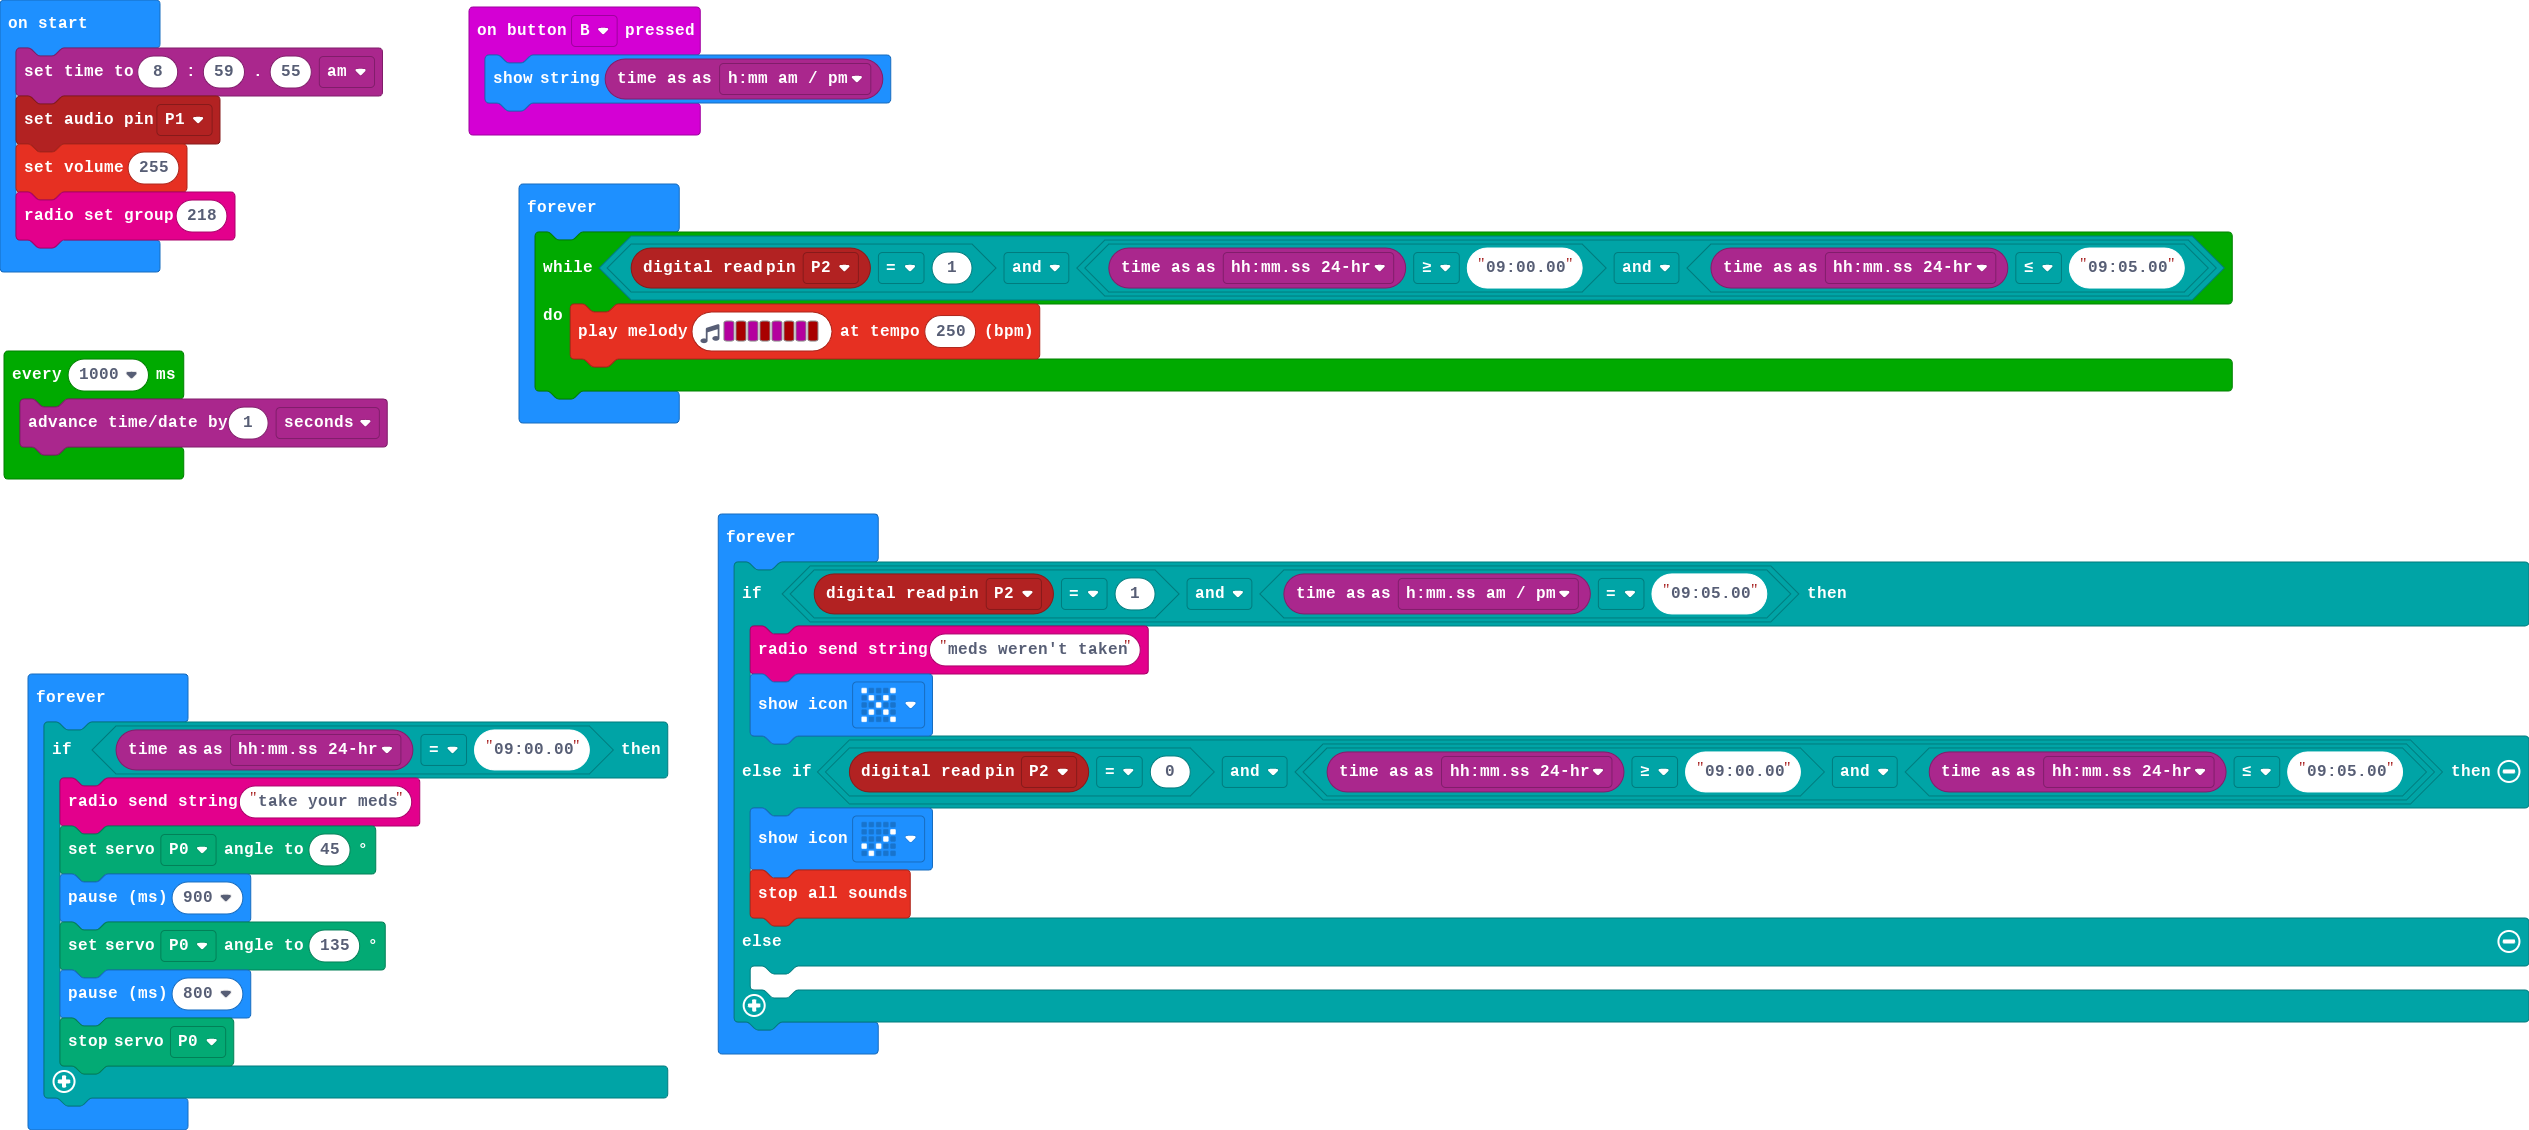
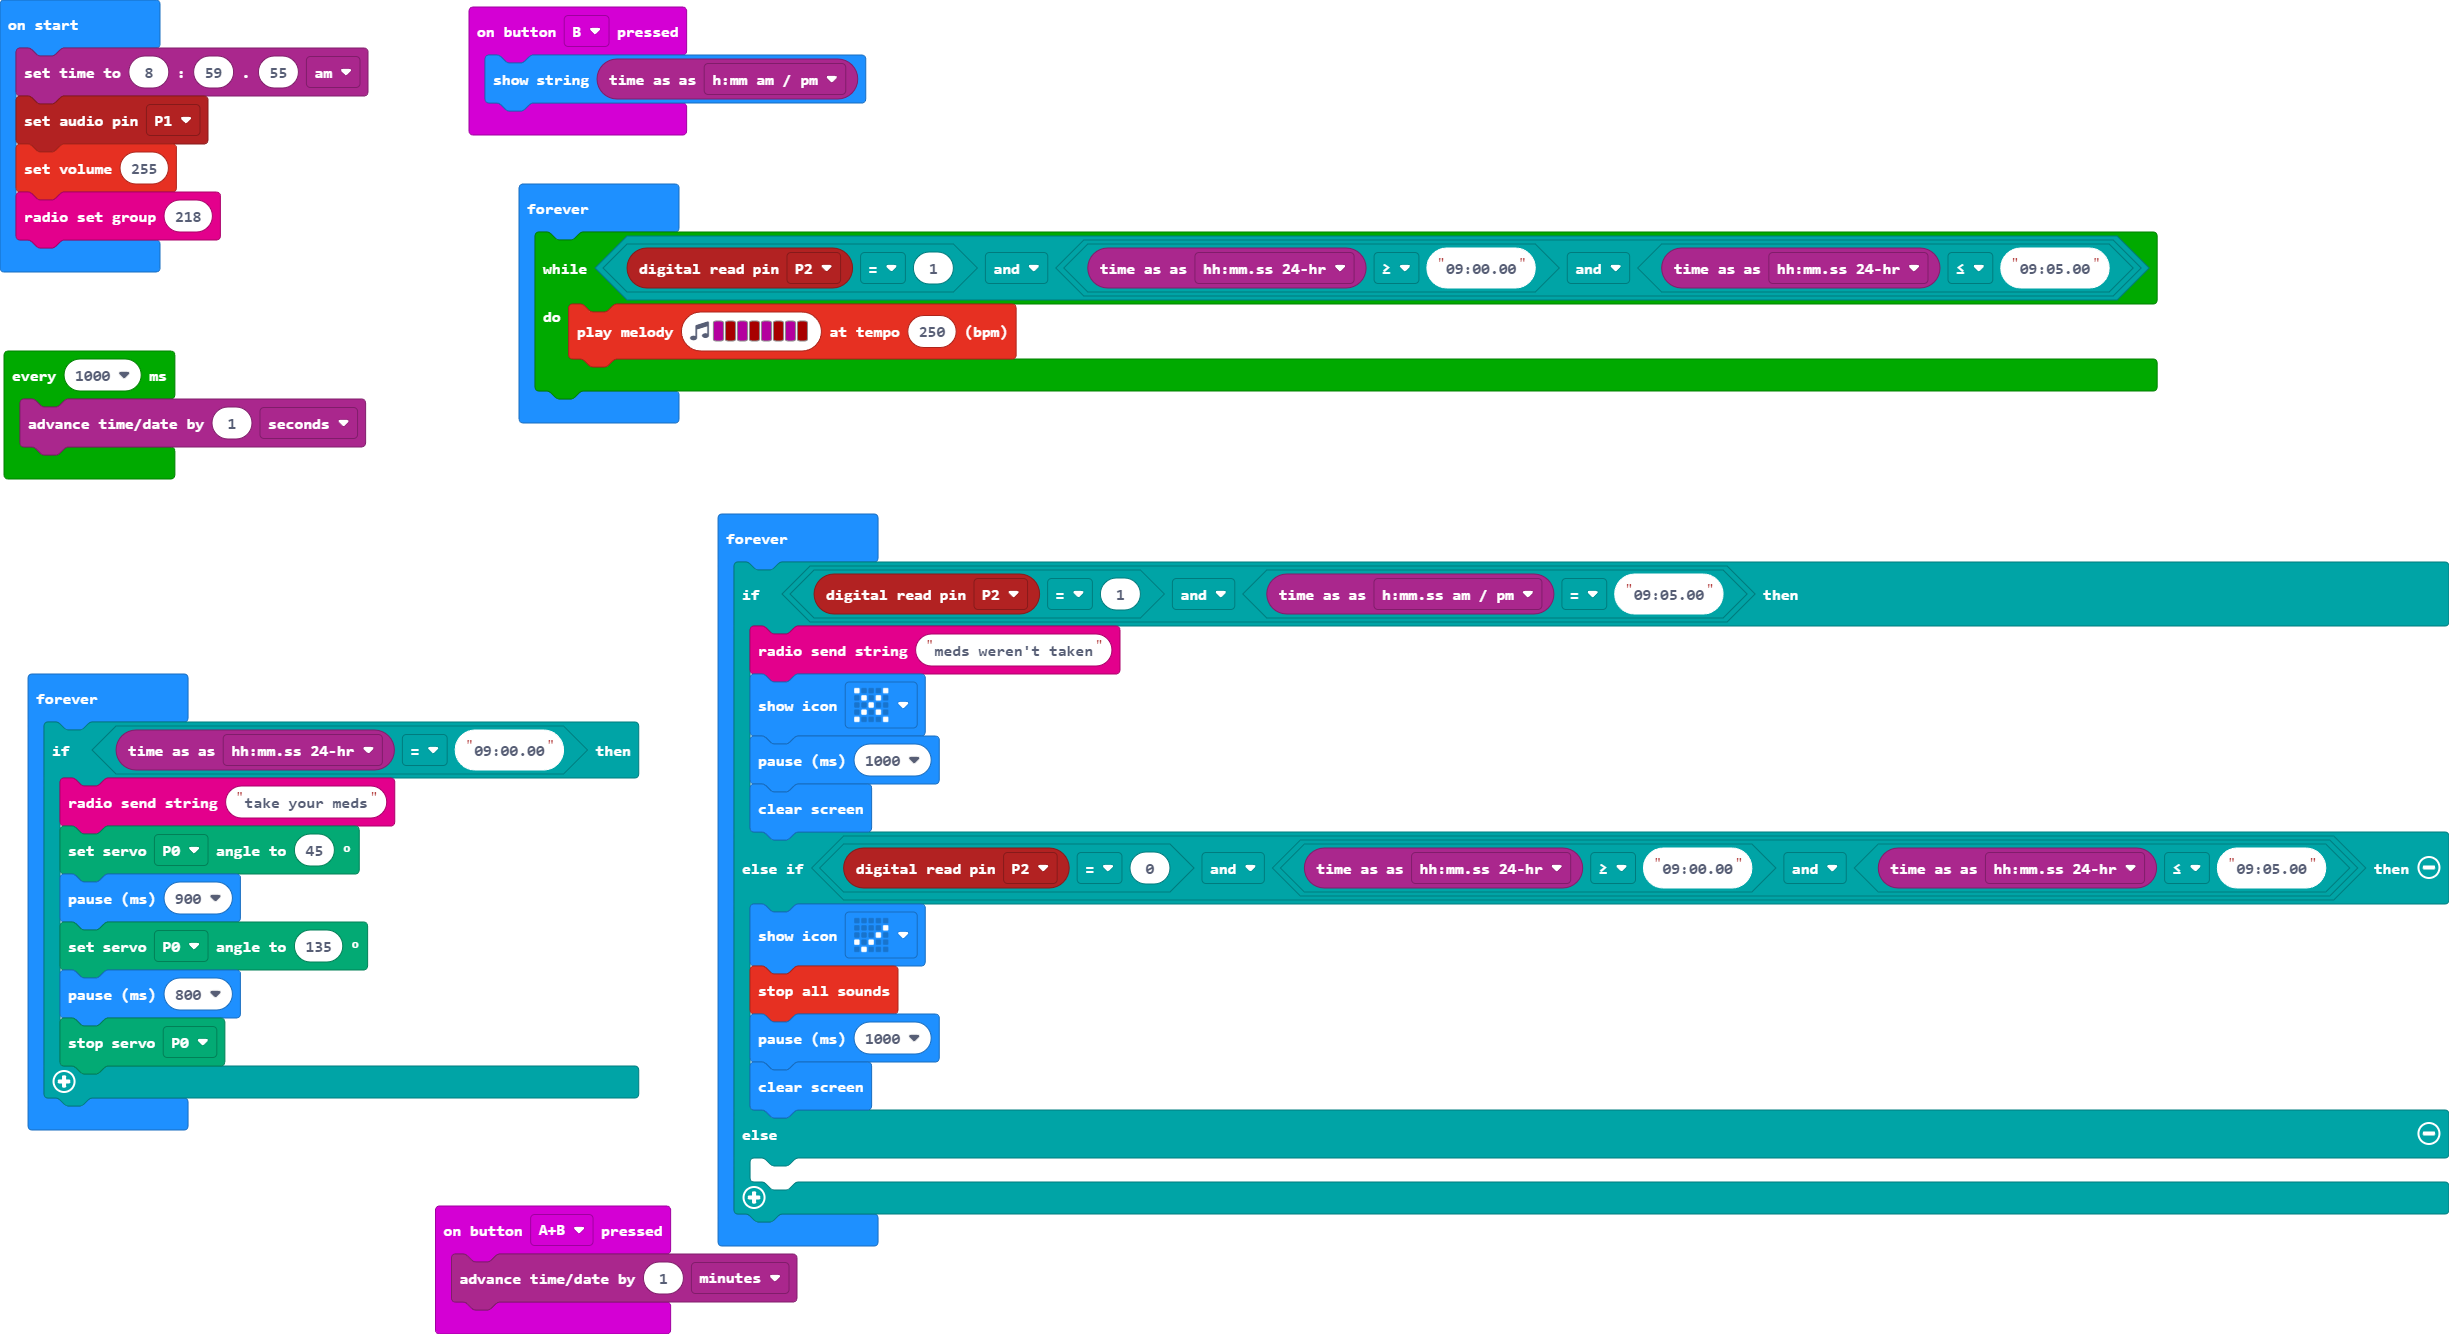
Update main.blocks, main.ts

diff --git a/main.ts b/main.ts
@@ -1,3 +1,6 @@
+input.onButtonPressed(Button.AB, function () {
+    timeanddate.advanceBy(1, timeanddate.TimeUnit.Minutes)
+})
 input.onButtonPressed(Button.B, function () {
     basic.showString(timeanddate.time(timeanddate.TimeFormat.HMMAMPM))
 })
@@ -17,9 +20,13 @@ basic.forever(function () {
     if (pins.digitalReadPin(DigitalPin.P2) == 1 && timeanddate.time(timeanddate.TimeFormat.HMMSSAMPM) == "09:05.00") {
         radio.sendString("meds weren't taken")
         basic.showIcon(IconNames.No)
+        basic.pause(1000)
+        basic.clearScreen()
     } else if (pins.digitalReadPin(DigitalPin.P2) == 0 && (timeanddate.time(timeanddate.TimeFormat.HHMMSS24hr) >= "09:00.00" && timeanddate.time(timeanddate.TimeFormat.HHMMSS24hr) <= "09:05.00")) {
         basic.showIcon(IconNames.Yes)
         music.stopAllSounds()
+        basic.pause(1000)
+        basic.clearScreen()
     } else {
     	
     }
